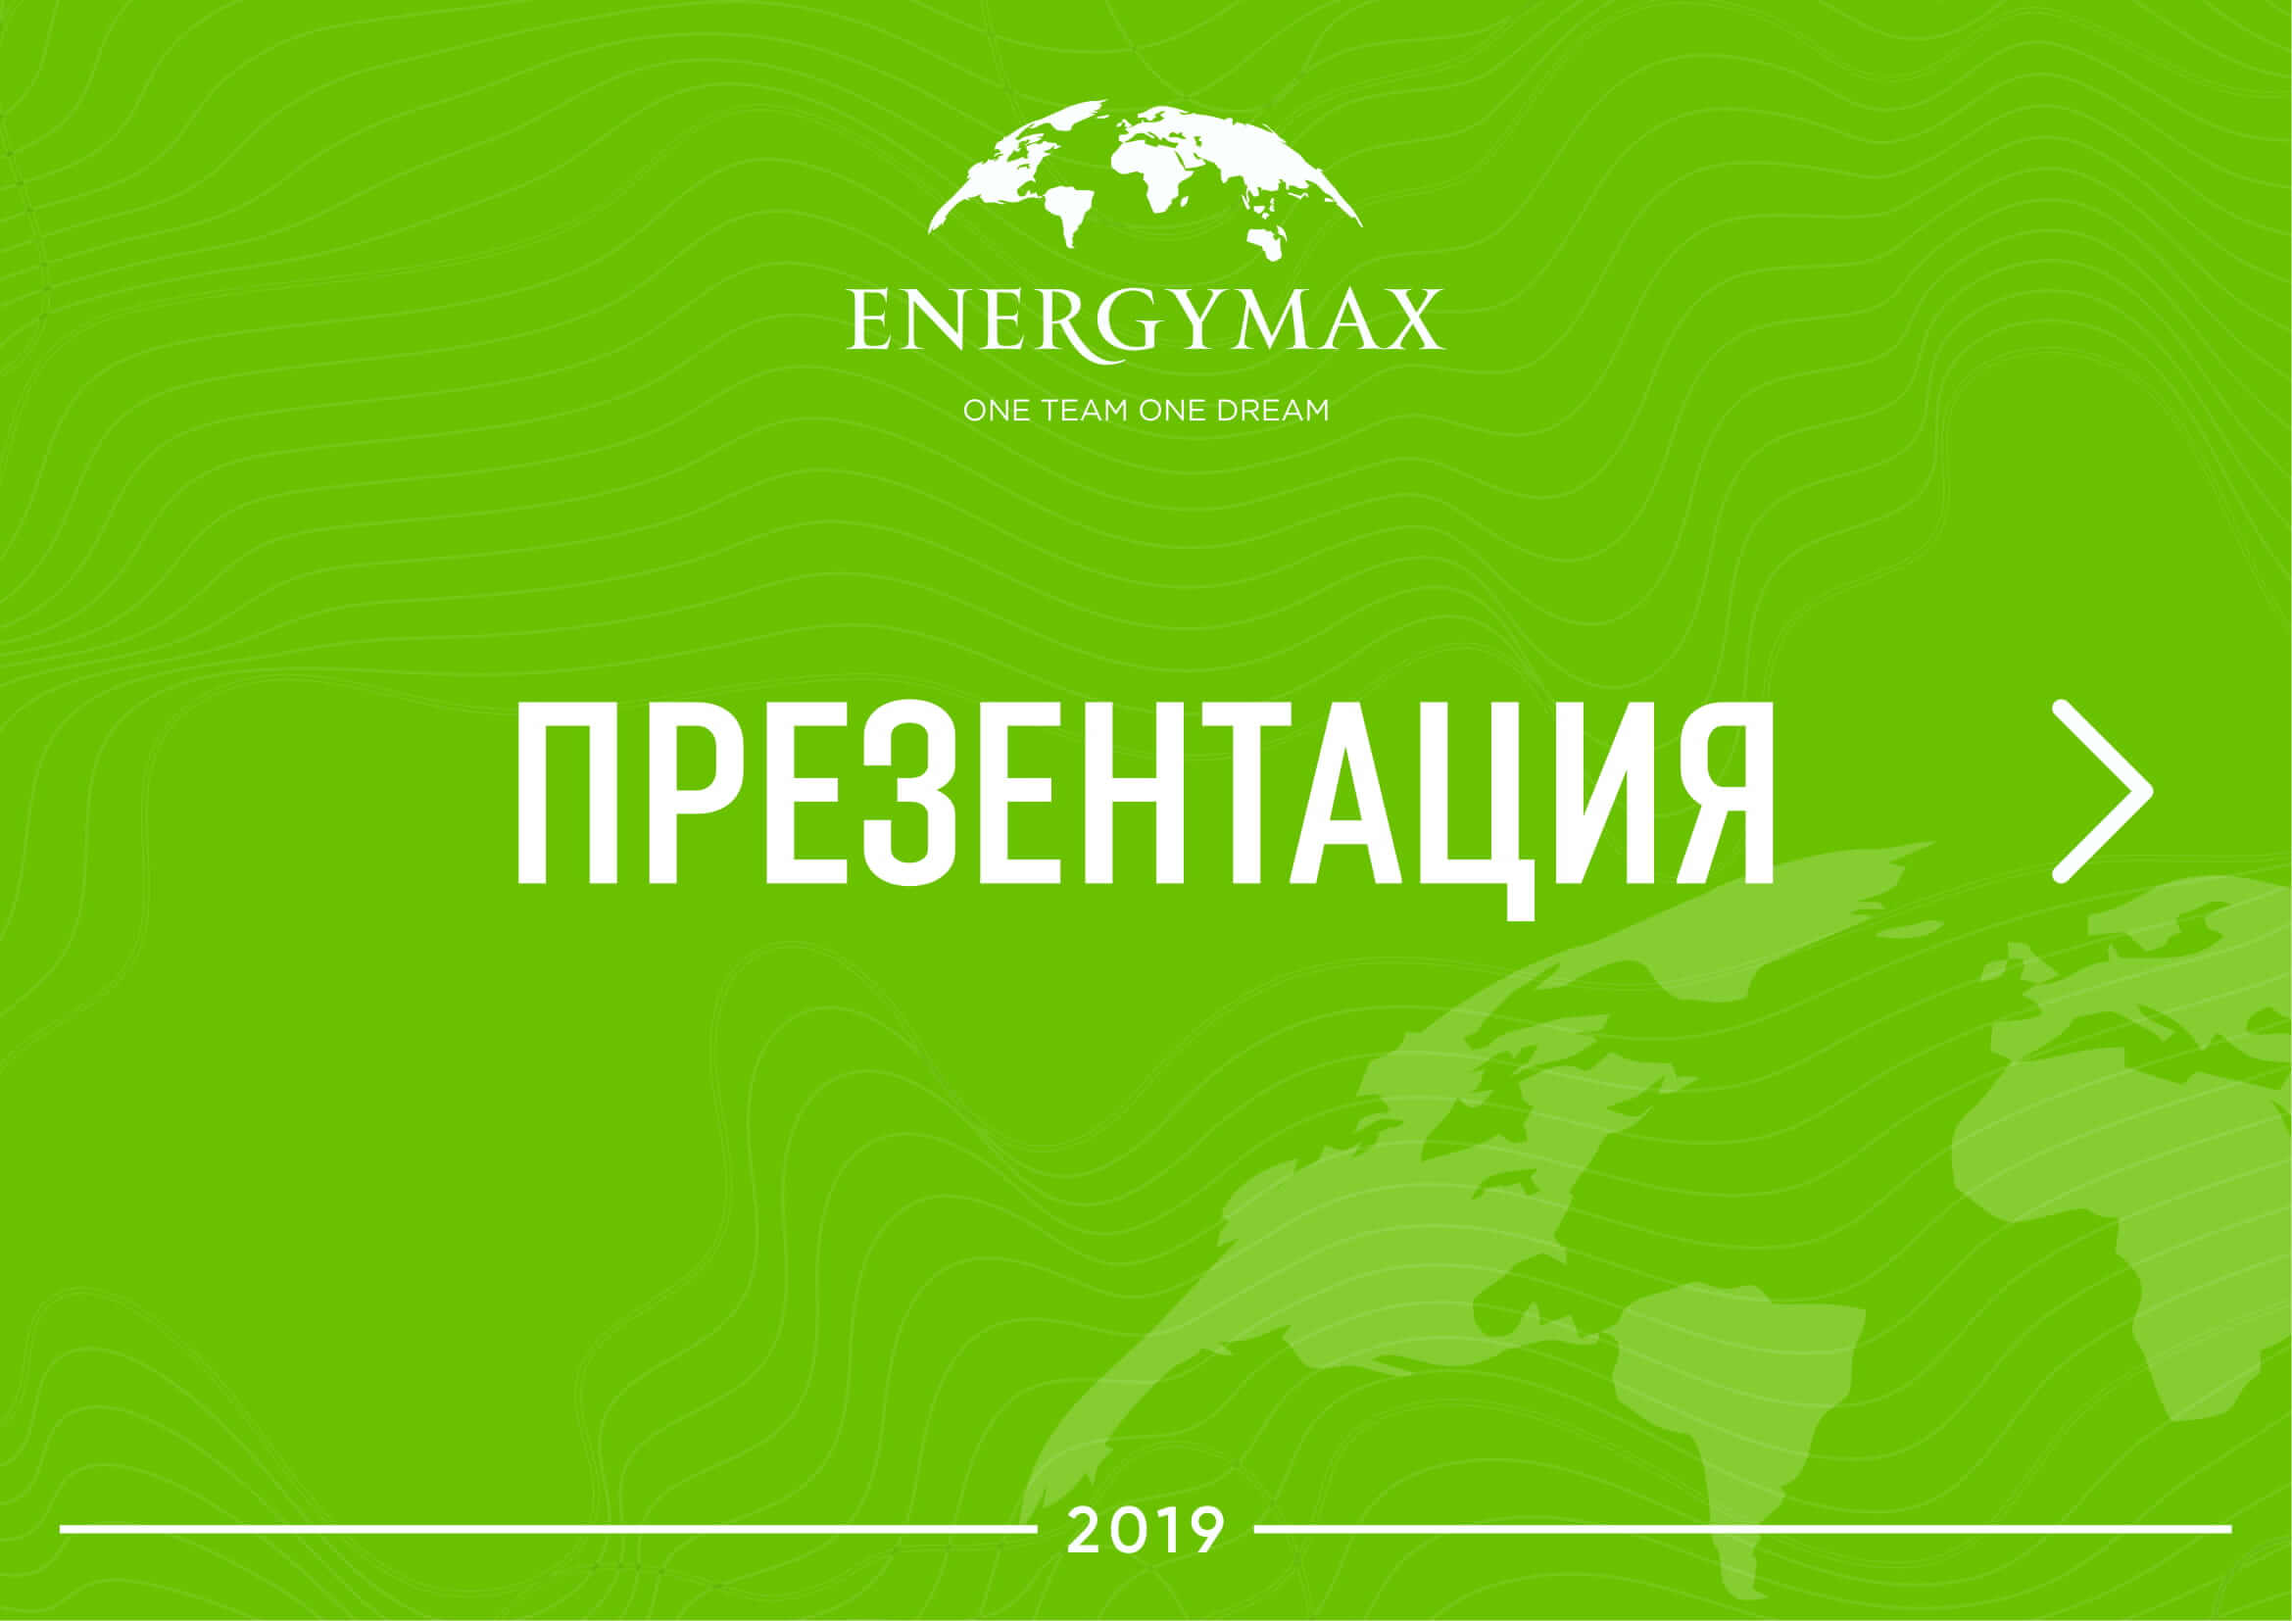
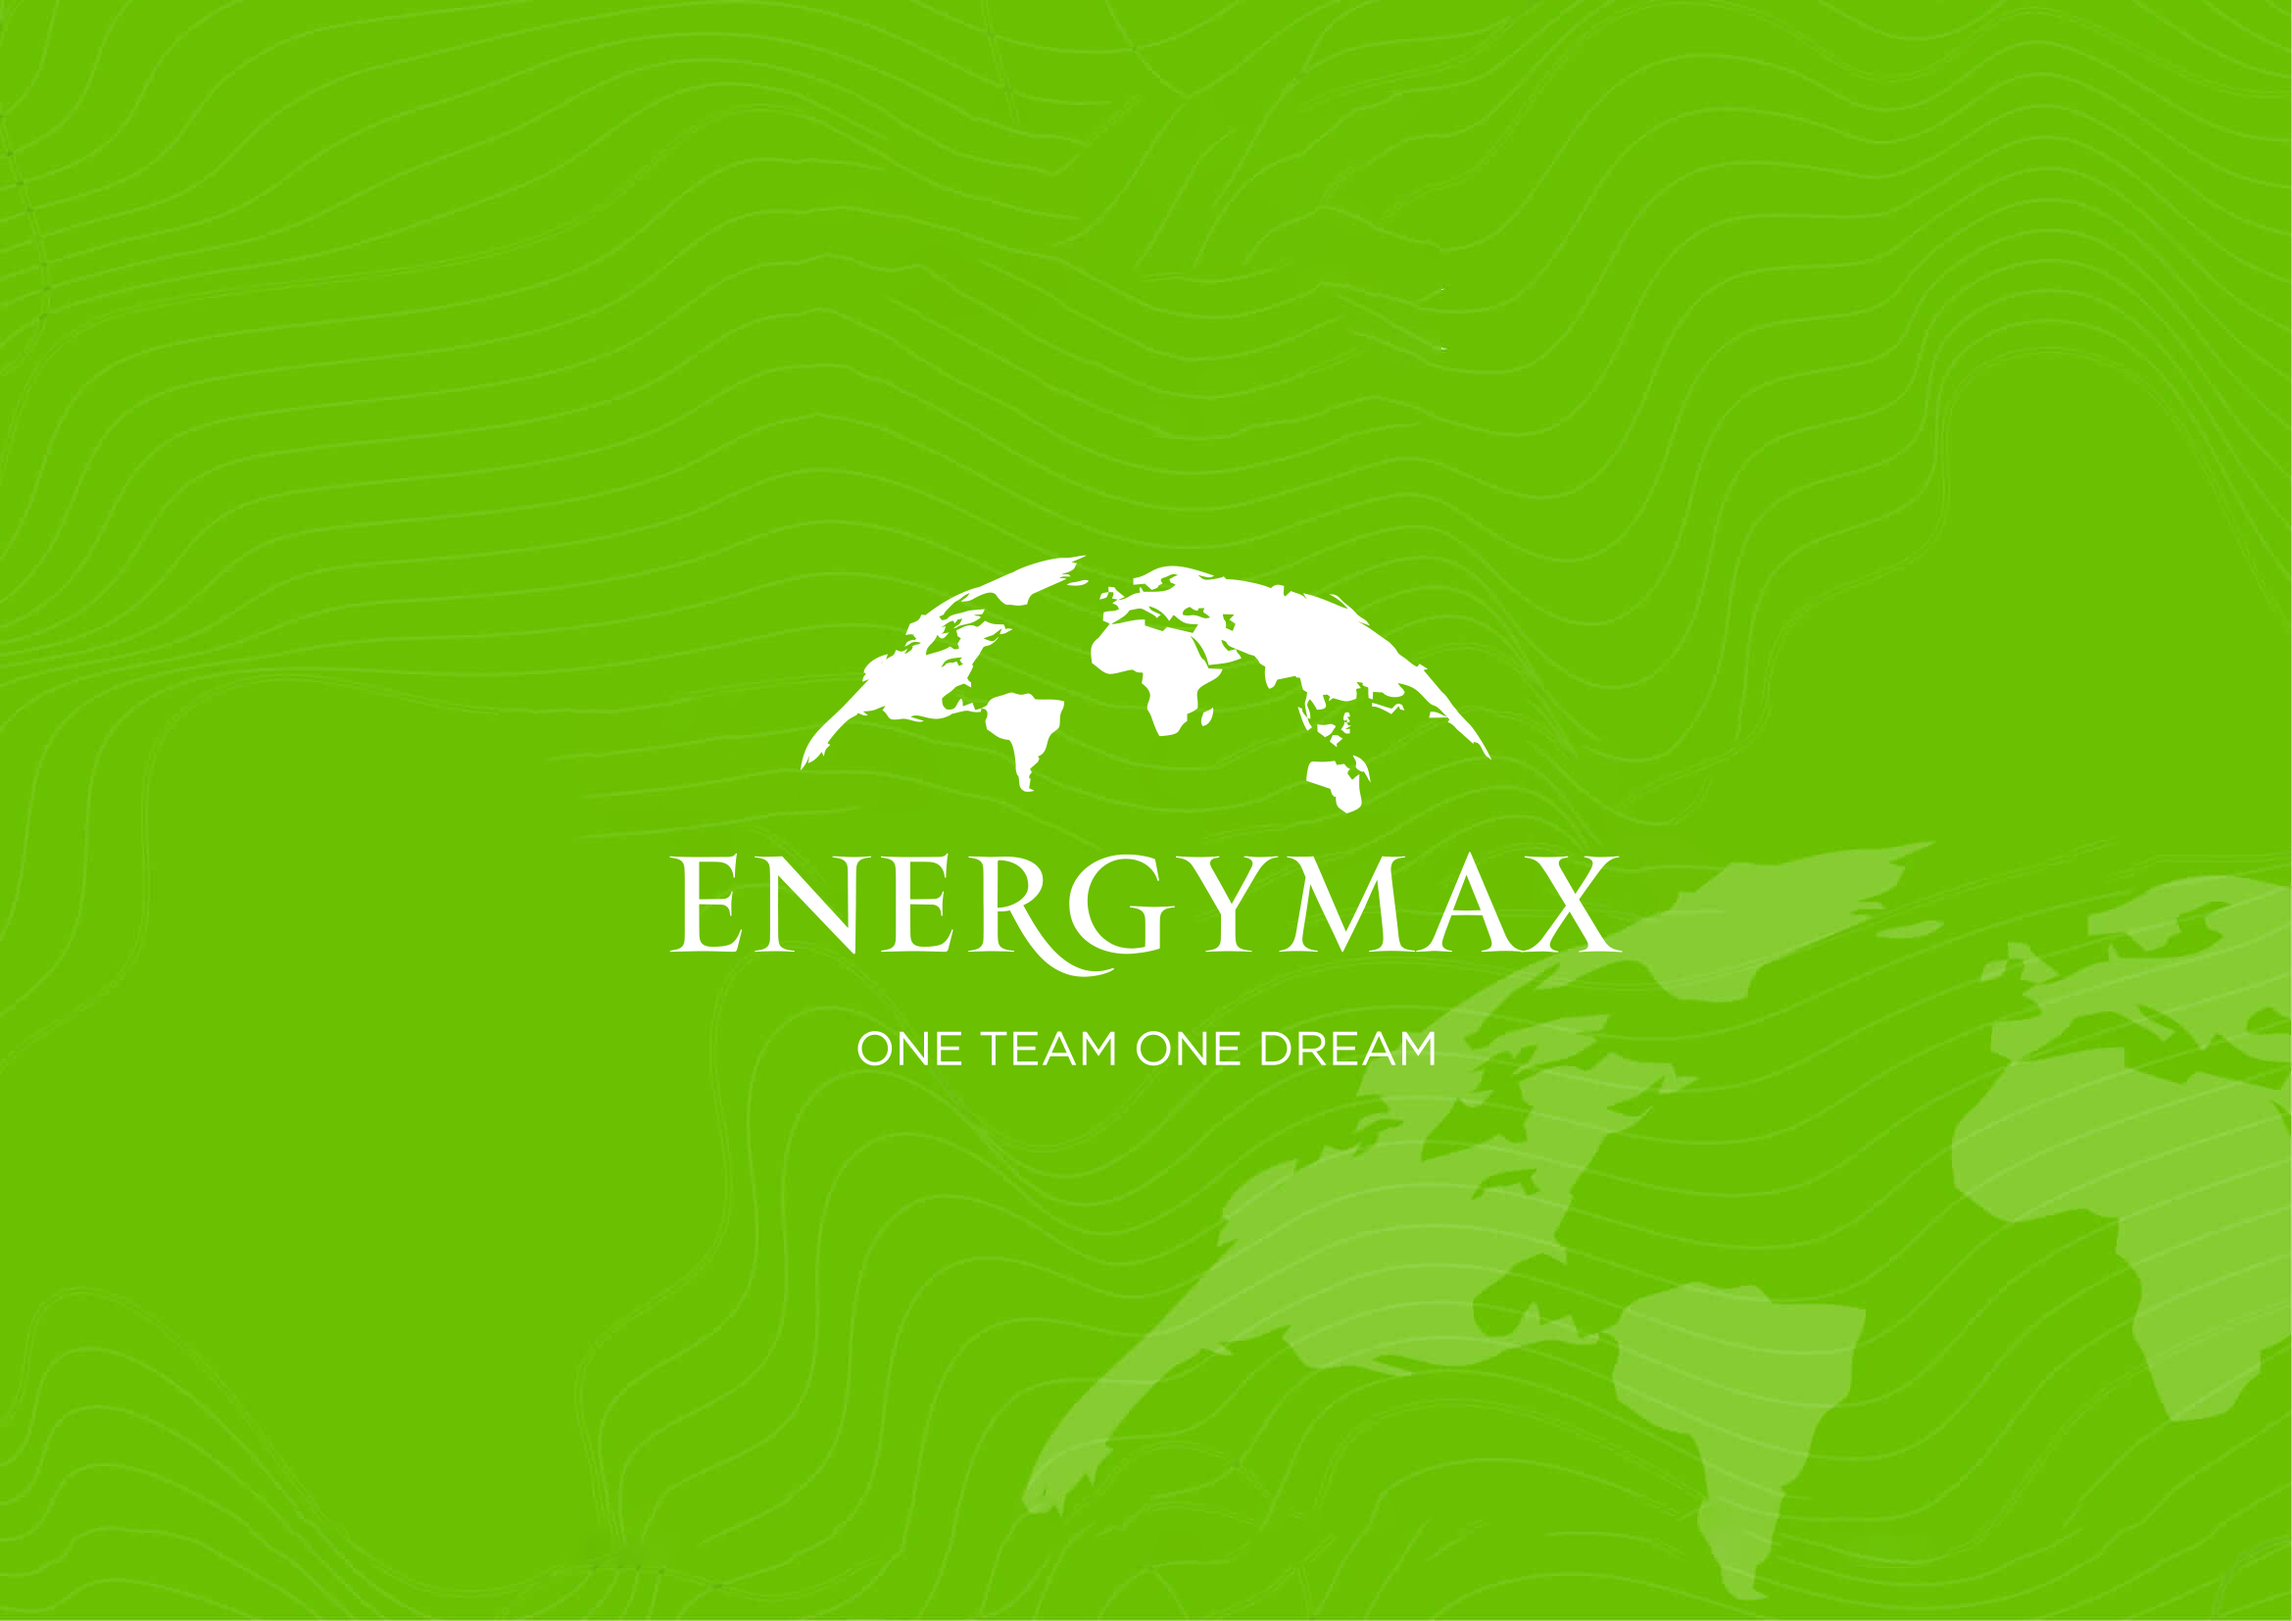
rix orders

diff --git a/public/css/custom.css b/public/css/custom.css
@@ -98,10 +98,9 @@ input.error {
     cursor: pointer;
 }
 
-.light-logo{
-    width: 100px;
+.light-logo {
+    width: 160px;
 }
-
 
 .img-for-pay img{
     height: 120px;

diff --git a/app/Http/Controllers/ProductController.php b/app/Http/Controllers/ProductController.php
@@ -194,12 +194,12 @@ class ProductController extends Controller
     }
     public function orders(Request $request){
 
-        $orders_query = Order::orderBy('updated_at' , 'desc')->where('type','shop');
+        $orders_query = Order::orderBy('updated_at' , 'desc')->where('type','shop')->where('status',11);
 
         if(isset($request->shop)) $orders_query = $orders_query->where('status',11);
         else $orders_query = $orders_query->where('status',4)->orWhere('status',6);
 
-        $orders = $orders_query->paginate();
+        $orders = $orders_query->paginate(10);
 
         return view('order', compact('orders'));
     }

diff --git a/resources/views/layouts/topbar.blade.php b/resources/views/layouts/topbar.blade.php
@@ -11,10 +11,9 @@
                     <!-- Dark Logo icon -->
                     <img src="/website/img/logo/logo.png" alt="homepage" class="dark-logo" />
                     <!-- Light Logo icon -->
-                    <img src="/nrg/logo_white.png" alt="homepage" class="light-logo" />
+                    <img src="/nrg/logo_white.svg" alt="homepage" class="light-logo" />
                     </b>
                     <!--End Logo icon -->
-                </span>
             </a>
         </div>
         <!-- ============================================================== -->

diff --git a/app/Helpers/Balance.php b/app/Helpers/Balance.php
@@ -83,7 +83,8 @@ class Balance {
         $date_to = explode('-',$date_to);
         $date_to = Carbon::create($date_to[0], $date_to[1], $date_to[2],23,59,59, date_default_timezone_get())->toDateTimeString();
 
-        $sum = Processing::whereUserId($user_id)->where('status', $status)->whereBetween('created_at', [$date_from, $date_to])->sum('sum');
+        $sum = Processing::whereUserId($user_id)->where('status', $status)->whereBetween('created_at', [$date_from, $date_to])->get();
+        dd($sum);
         return round($sum, 2);
     }
 

diff --git a/resources/views/layouts/admin-sidebar.blade.php b/resources/views/layouts/admin-sidebar.blade.php
@@ -53,7 +53,7 @@
                     <a class="has-arrow" href="#" aria-expanded="false"><i class="mdi mdi-shopping"></i><span class="hide-menu">Магазин</span></a>
                     <ul aria-expanded="false" class="collapse">
                         <li><a href="/store">Товары</a></li>
-                        <li><a href="/order">Заказы</a></li>
+                        <li><a href="/order?shop=1">Заказы</a></li>
                     </ul>
                 </li>
                 <li>
